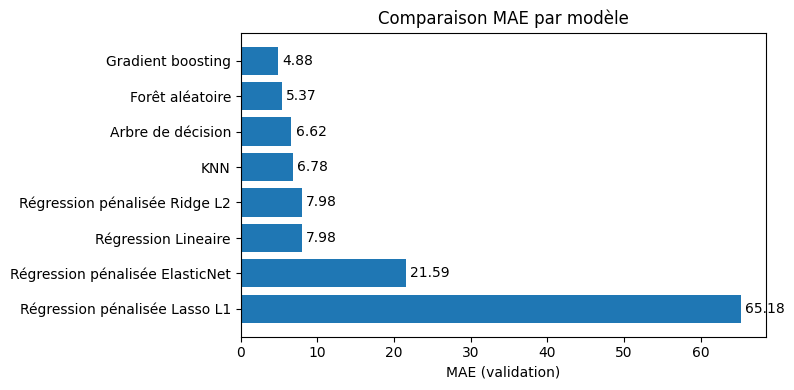
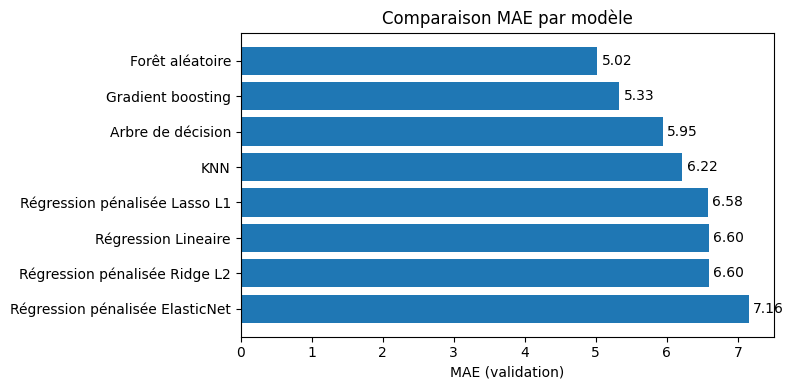
MAJ readme

diff --git a/README.md b/README.md
@@ -1,4 +1,3 @@
-
 ![alt text](https://github.com/gerard-loic/floracle/blob/master/notebooks/images/planche-logo-floracle.jpg?raw=true)
 
 # Définition des objectifs
@@ -195,30 +194,30 @@ Le préprocessing des données intègre une normalisation (Standard Scaler) sur 
 # Evaluation
 
 ## Performances des modèles
-| Modèle | Inférence (en ms) | Entrainement (en s) | MAE | RMSE | % à +/- 3 j | % à +/- 7 j |
-| ------ | ----------------- | ------------------- | --- | ---- | ----------- | ----------- |
-| Régr. linéaire | 8 | 2 | 9.348111 | 10.141592 | 27.06 | 53.08 |
-| Régr. Ridge L2 | 1 | 2 | 9.348114 | 10.140907 | 27.05 | 53.08 |
-| Régr. Lasso L1 | 1 | 2 | 75.418229 | 75.556915 | 2.31 | 5.40 |
-| Régr. ElasticNet | 1 | 2 | 26.572929 | 27.193822 | 10.70 | 22.58 |
-| KNN | 4 | 7.3 | 5.090163 | 9.020979 | 31.34 | 63.50 |
-| Arbre de décision | 1 | 35 | 3.187009 | 9.027631 | 36.32 | 66.16 |
-| Forêt aléatoire | 105 | 2581 | 3.413736 | 7.036325 | 38.49 | 71.14 |
-| Gradient Boosting | 2 | 1776 | 4.604754 | 6.457499 | 42.76 | 74.35 |
+| Modèle | Inférence (en ms) | MAE | RMSE | % à +/- 3 j | % à +/- 7 j |
+|---|---|---|---|---|---|
+| Régr. linéaire | 8 | 6.598598 | 8.384724 | 30,67 | 59,98 |
+| Régr. Ridge L2 | 1 | 6.598599 | 8.384724 | 30,67 | 59,98 |
+| Régr. Lasso L1 | 1 | 6.584328 | 8.397995 | 31,02 | 60,31 |
+| Régr. ElasticNet | 1 | 7.158833 | 9.039506 | 26,21 | 57,22 |
+| KNN | 4 | 6.219669 | 8.120785 | 29,79 | 67,49 |
+| Arbre de décision | 1 | 5.945374 | 7.644293 | 30,37 | 73,07 |
+| Forêt aléatoire | 105 | 5.022680 | 6.446312 | 35,48 | 75,36 |
+| Gradient Boosting | 2 | 5.333548 | 6.717495 | 31,96 | 72,47 |
 
 L’indicateur de performance RMSE est le plus pertinent. En effet, se tromper de 6 jours sur la date de floraison, c'est acceptable. Se tromper de 15 jours, c'est potentiellement manquer complètement la période favorable de pose des hausses. Le RMSE, en pénalisant quadratiquement, reflète cette réalité : les grandes erreurs sont disproportionnellement problématiques.
 
 ![alt text](https://github.com/gerard-loic/floracle/blob/master/notebooks/images/comparaison-mae.png?raw=true)
 ![alt text](https://github.com/gerard-loic/floracle/blob/master/notebooks/images/comparaison-rmse.png?raw=true)
 
-L’analyse des performances des modèles permets d’identifier le modèle de Gradient Boosting comme celui avec la plus grande efficacité. De fait, même si la métrique MAE est meilleure sur la forêt aléatoire, l’indicateur de RMSE donne la priorité au Gradient Boosting, or celle-ci est la plus adaptée pour un modèle de phénologie. En effet, se tromper de 2 jours sur la date de floraison, c'est acceptable. Se tromper de 15 jours, c'est potentiellement manquer complètement la période favorable de pose des hausses. Le RMSE, en pénalisant quadratiquement, reflète cette réalité : les grandes erreurs sont disproportionnellement problématiques.
+ L’indicateur de RMSE désigne le modèle de Forêt Aléatoire comme celui présentant la plus grande efficacité. L'indicateur RMSE le plus impactant sur notre problématique. En effet, se tromper de 2 jours sur la date de floraison, c'est acceptable. Se tromper de 15 jours, c'est potentiellement manquer complètement la période favorable de pose des hausses. Le RMSE, en pénalisant quadratiquement, reflète cette réalité : les grandes erreurs sont disproportionnellement problématiques.
 
-## Analyse des performances du modèle de Gradient Boosting
-![alt text](https://github.com/gerard-loic/floracle/blob/master/notebooks/images/gradientboosting-distribution-erreurs.png?raw=true)
+## Analyse des performances du modèle de Forêt aléatoire
+![alt text](https://github.com/gerard-loic/floracle/blob/master/notebooks/images/randomforest-distribution-erreurs.png?raw=true)
 Le modèle présente de bonnes caractéritiques de biai : en moyenne, il ne surestime ni ne sous-estime systématiquement. C'est une propriété intéressante pour un modèle de prédiction phénologique.
 La forme ressemble à une cloche centrée autour de 0, ce qui indique un comportement cohérent et sans dérive systématique. La distribution semble légèrement leptokurtique (pic prononcé, queues non négligeables) : le modèle est souvent bon, mais commet parfois des erreurs importantes. Ce n'est pas une distribution strictement gaussienne.
 
-![alt text](https://github.com/gerard-loic/floracle/blob/master/notebooks/images/gradientboosting-overfitting.png?raw=true)
+![alt text](https://github.com/gerard-loic/floracle/blob/master/notebooks/images/randomforest-overfitting.png?raw=true)
 L'écart entre les performances en entraînement et validation fait apparaitre un risque d'overfitting modéré:  le modèle a mémorisé une partie du bruit d'entraînement, sans pour autant s'effondrer en validation.
 Le RMSE qui grimpe plus fort que la MAE (+40% vs +44% — proches ici) confirme que la validation produit davantage d'erreurs importantes que le train, ce qui est visible sur le troisième graphique, ou pour le dire autrement le modèle gère moins bien les cas rares, ce qui est attendu. Une évolution des modèles pourrait consister à chercher à réduire ce surapprentissage en entraînant les modèles avec davantage de données ou avec d'autres hyperparamètres. 
 
@@ -227,8 +226,8 @@ Afin de valider l’intérêt de la démarche en Machine Learning par rapport au
 Voici les performances constatées : 
 | Modèle | MAE | RMSE |
 | ------ | ----------------- | ------------------- |
-| Modèle GDD | 8.13 | 10.32 |
-| Gradient Boosting | 4.89 | 6.47 |
+| Méthode GDD | 7.06 | 9.17 |
+| Gradient Boosting | 4.95 | 6.35 |
 
 Pour mieux appréhender ces résultats il convient de prendre en considération :
 •	La variance biologique : sur un même ensemble de plantations des variances de plus de 5 jours peuvent être constatés dans la floraison. Ceci s’explique par des facteurs difficilement mesurables : âge de la vigne, composition des sols, microtopographie…
